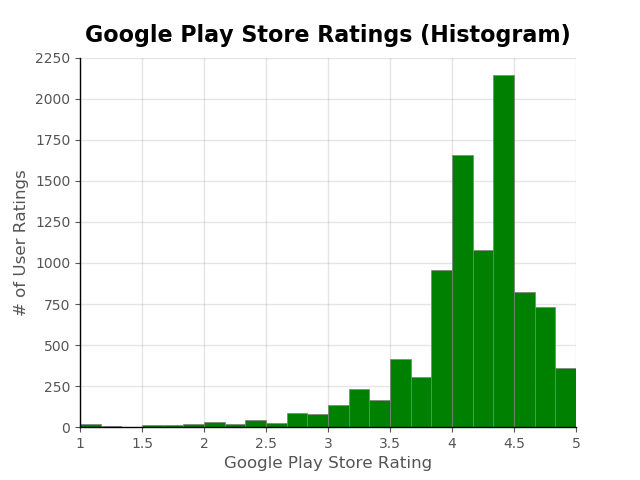
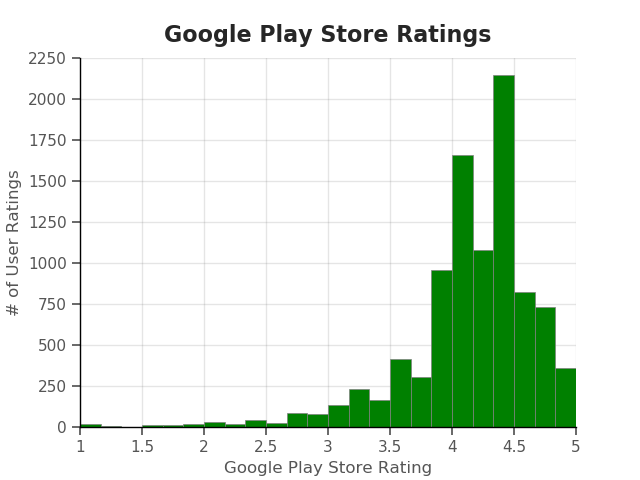
update

diff --git a/Graphs/Google Play Store/play_store_graph_bars.py b/Graphs/Google Play Store/play_store_graph_bars.py
@@ -1,8 +1,6 @@
 import pandas as pd
 import numpy as np
 import matplotlib.pyplot as plt
-import matplotlib.mlab as mlab
-from matplotlib.ticker import FormatStrFormatter
 from matplotlib.ticker import MaxNLocator
 plt.style.use('ggplot')
 # After setting ggplot, these are the params we have started using as defaults
@@ -12,7 +10,7 @@ plt.rcParams['grid.color'] = 'grey'
 plt.rcParams['grid.linewidth'] = 1
 plt.rcParams['grid.alpha'] = 0.2
 plt.rcParams["axes.edgecolor"] = "black"
-from adjustText import adjust_text
+from adjustText import adjust_text  # Used for scatterplots
 
 google_data = pd.read_csv("\\Users\ghodg\Desktop\Projects\Python\Graphs\Google Play Store\googleplaystore.csv",
                    encoding='utf-8')
@@ -42,7 +40,7 @@ def ratings_hist(df):
     plt.hist(df, 24, facecolor='green', edgecolor='gray')
     plt.ylabel('# of User Ratings')
     plt.xlabel('Google Play Store Rating')
-    title = plt.title('Google Play Store Ratings (Histogram)', fontsize=16, fontweight='bold')
+    title = plt.title('Google Play Store Ratings', fontsize=16, fontweight='bold')
     title.set_position([.5, 1.02])
     plt.axis([0, 38, 0, 2250])
     plt.gca().spines['right'].set_visible(False)
@@ -52,9 +50,6 @@ def ratings_hist(df):
                ("1", "1.5", "2", "2.5", "3", "3.5", "4", "4.5", "5"))
 
     plt.savefig("\\Users\ghodg\Desktop\Projects\Python\Graphs\Google Play Store\Graph_outputs\\ratings_histogram.png")
-
-
-ratings_hist(google_ratings)
 
 
 # df for the Google Play Store categories
@@ -100,8 +95,6 @@ def google_category(df_category):
     plt.savefig("\\Users\ghodg\Desktop\Projects\Python\Graphs\Google Play Store\Graph_outputs\\category_bar.png")
 
 
-google_category(df_category)
-
 def type_stacked(clean_data):
     # df for the Google Play Store content ratings vs. paid/free
     google_content = clean_data[['type', 'content_rating']]
@@ -134,62 +127,9 @@ def content_stacked(clean_data):
     plt.subplots_adjust(left=0.11, right=0.95, bottom=0.16)
     plt.savefig("\\Users\ghodg\Desktop\Projects\Python\Graphs\Google Play Store\Graph_outputs\\content_stacked_bar.png")
 
+
+ratings_hist(google_ratings)
+google_category(df_category)
 type_stacked(clean_data)
 content_stacked(clean_data)
 
-# Attempt at some line density plots of category and rating
-import seaborn as sns
-sns.set(style="ticks")
-
-categories = ['Family', 'Game', 'Tools', 'Medical', 'Business']
-google_top_category = clean_data[['category', 'rating']]
-google_top_category = google_top_category.dropna()
-google_top_category['category'] = google_top_category.category.str.replace('_', ' ')
-google_top_category['category'] = google_top_category.category.str.title()
-
-for genre in categories:
-    subset = google_top_category[google_top_category['category'] == genre]
-    sns.distplot(subset['rating'], hist=False, kde=True,
-                 kde_kws={'linewidth': 1.5},
-                 label=genre)
-
-# Plot formatting
-plt.legend(prop={'size': 10}, title='Categories')
-plt.title('Density Plot of Top 5 Categories', fontsize=14,
-          fontweight='bold')
-plt.xlabel('Google Play Store Ratings')
-plt.ylabel('Density')
-plt.savefig("\\Users\ghodg\Desktop\Projects\Python\Graphs\Google Play Store\Graph_outputs\\genre_top5_distplot.png")
-
-
-
-# Other density plots, top 5 categories visualized differently
-categories = ['Family', 'Game', 'Tools', 'Medical', 'Business']
-google_den_category = clean_data[['category', 'rating']]
-google_den_category = google_den_category.dropna()
-google_den_category['category'] = google_den_category.category.str.replace('_', ' ')
-google_den_category['category'] = google_den_category.category.str.title()
-density_df = google_den_category.loc[google_den_category['category'].isin(categories)]
-
-d = {'color': ['blue', 'orange', 'green', 'red', 'purple']}
-g = sns.FacetGrid(density_df,
-                  row="category",
-                  height=1.4,
-                  aspect=2,
-                  hue_kws=d,
-                  hue='category')
-g.map(sns.distplot, "rating", hist=True, rug=False)
-g.set(xlim=(1, None))
-axes = g.axes.flatten()
-axes[0].set_title('Google Play Store - Business')
-axes[1].set_title('Google Play Store - Game')
-axes[2].set_title('Google Play Store - Family')
-axes[3].set_title('Google Play Store - Medical')
-axes[4].set_title('Google Play Store - Tools')
-axes = g.axes.flatten()
-for ax in axes:
-    ax.set_ylabel("Density")
-plt.subplots_adjust(top=0.9)
-g.fig.suptitle('Google Play Store Density Plots - Top 5 Categories', fontweight='bold')
-
-plt.savefig("\\Users\ghodg\Desktop\Projects\Python\Graphs\Google Play Store\Graph_outputs\\genre_top5_density_plot.png")

diff --git a/Graphs/Google Play Store/google_density_plots.py b/Graphs/Google Play Store/google_density_plots.py
@@ -1,0 +1,93 @@
+import pandas as pd
+import numpy as np
+import matplotlib.pyplot as plt
+from matplotlib.ticker import MaxNLocator
+plt.style.use('ggplot')
+# After setting ggplot, these are the params we have started using as defaults
+plt.rcParams['font.sans-serif'] = 'Helvetica'
+plt.rcParams['axes.facecolor'] = 'white'
+plt.rcParams['grid.color'] = 'grey'
+plt.rcParams['grid.linewidth'] = 1
+plt.rcParams['grid.alpha'] = 0.2
+plt.rcParams["axes.edgecolor"] = "black"
+from adjustText import adjust_text  # Used for scatterplots
+
+google_data = pd.read_csv("\\Users\ghodg\Desktop\Projects\Python\Graphs\Google Play Store\googleplaystore.csv",
+                   encoding='utf-8')
+google_data.head()
+google_data.info()
+
+def clean_columns(df):
+    df.columns = df.columns.str.replace(' ', '_')
+    df.columns = [x.lower() for x in df.columns]
+    df = df[pd.notnull(df['type'])]
+    print("Cleaning raw data......")
+    return df
+
+clean_data = clean_columns(google_data)
+clean_data.info()
+
+
+# Attempt at some line density plots of category and rating
+import seaborn as sns
+sns.set(style="ticks")
+
+categories = ['Family', 'Game', 'Tools', 'Medical', 'Business']
+google_top_category = clean_data[['category', 'rating']]
+google_top_category = google_top_category.dropna()
+google_top_category['category'] = google_top_category.category.str.replace('_', ' ')
+google_top_category['category'] = google_top_category.category.str.title()
+
+for genre in categories:
+    subset = google_top_category[google_top_category['category'] == genre]
+    sns.distplot(subset['rating'], hist=False, kde=True,
+                 kde_kws={'linewidth': 1.5},
+                 label=genre)
+
+# Plot formatting
+plt.legend(prop={'size': 10}, title='Categories')
+plt.title('Top 5 Categories by # of Apps', fontsize=14,
+          fontweight='bold')
+plt.xlabel('Google Play Store Ratings')
+plt.ylabel('Density')
+plt.savefig("\\Users\ghodg\Desktop\Projects\Python\Graphs\Google Play Store\Graph_outputs\\genre_top5_distplot.png")
+
+
+
+# Other density plots, top 5 categories visualized differently
+categories = ['Family', 'Game', 'Tools', 'Medical', 'Business']
+google_den_category = clean_data[['category', 'rating']]
+google_den_category = google_den_category.dropna()
+google_den_category['category'] = google_den_category.category.str.replace('_', ' ')
+google_den_category['category'] = google_den_category.category.str.title()
+density_df = google_den_category.loc[google_den_category['category'].isin(categories)]
+
+d = {'color': ['blue', 'orange', 'green', 'red', 'purple']}
+g = sns.FacetGrid(density_df,
+                  row="category",
+                  height=1.4,
+                  aspect=6,
+                  hue_kws=d,
+                  hue='category')
+g.map(sns.distplot, "rating", hist=True, rug=False)
+g.set(xlim=(1, None))
+axes = g.axes.flatten()
+axes[0].set_title('Business Apps')
+axes[1].set_title('Game Apps')
+axes[2].set_title('Family Apps')
+axes[3].set_title('Medical Apps')
+axes[4].set_title('Tools Apps')
+axes = g.axes.flatten()
+for ax in axes:
+    ax.set_ylabel("Density")
+plt.subplots_adjust(top=0.9)
+g.fig.suptitle('Top 5 Categories by # of Apps', fontweight='bold')
+sns.set(rc={'figure.figsize':(11.7,8.27)})
+plt.xlabel('Google Play Store Ratings')
+
+plt.savefig("\\Users\ghodg\Desktop\Projects\Python\Graphs\Google Play Store\Graph_outputs\\genre_top5_density_plot.png")
+
+
+
+
+
